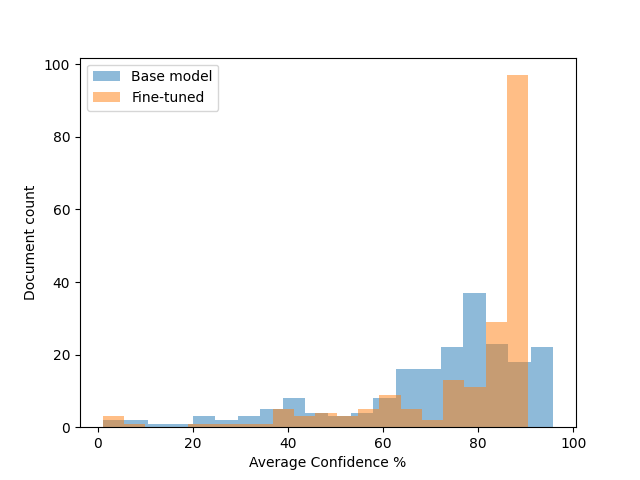
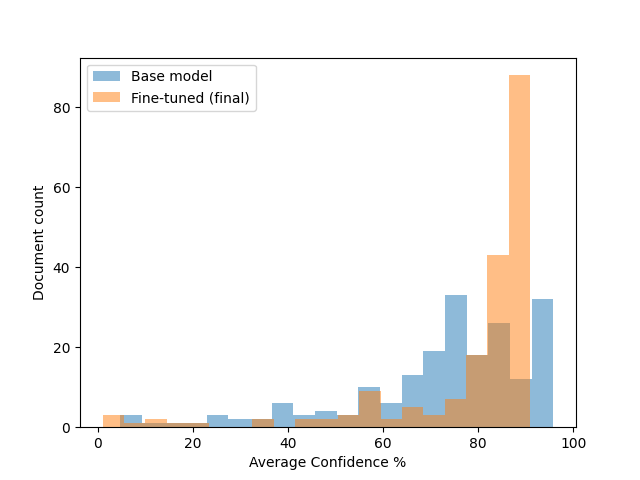
chore: update info on confidence comparison

diff --git a/backend/confidence_distribution.py b/backend/confidence_distribution.py
@@ -48,7 +48,7 @@ def main():
     finetuned_confs = get_confs("nep-ft-final")
 
     plt.hist(base_confs, alpha=0.5, label="Base model", bins=20)
-    plt.hist(finetuned_confs, alpha=0.5, label="Fine-tuned", bins=20)
+    plt.hist(finetuned_confs, alpha=0.5, label="Fine-tuned (final)", bins=20)
     plt.xlabel("Average Confidence %")
     plt.ylabel("Document count")
     plt.legend()

diff --git a/backend/training_info/README.md b/backend/training_info/README.md
@@ -294,3 +294,13 @@ BCER eval=16.209, BWER eval=25.821
 
 The decrease in BWER is drastic, while there is also a sizeable decrease in
 BCER.
+
+#### Confidence comparison
+
+The `nep` and `nep-ft-final` models were compared in terms of their accuracy
+in transcribing 200 line images, selected randomly from the 762 in the dataset.
+This was done via the `confidence_distribution.py` script. The results showed
+clearly improved results for the `nep-ft-final` model over the base `nep`
+model. This is illustrated via the following histogram:
+
+![Confidence comparison](../confidence_comparison.png)
